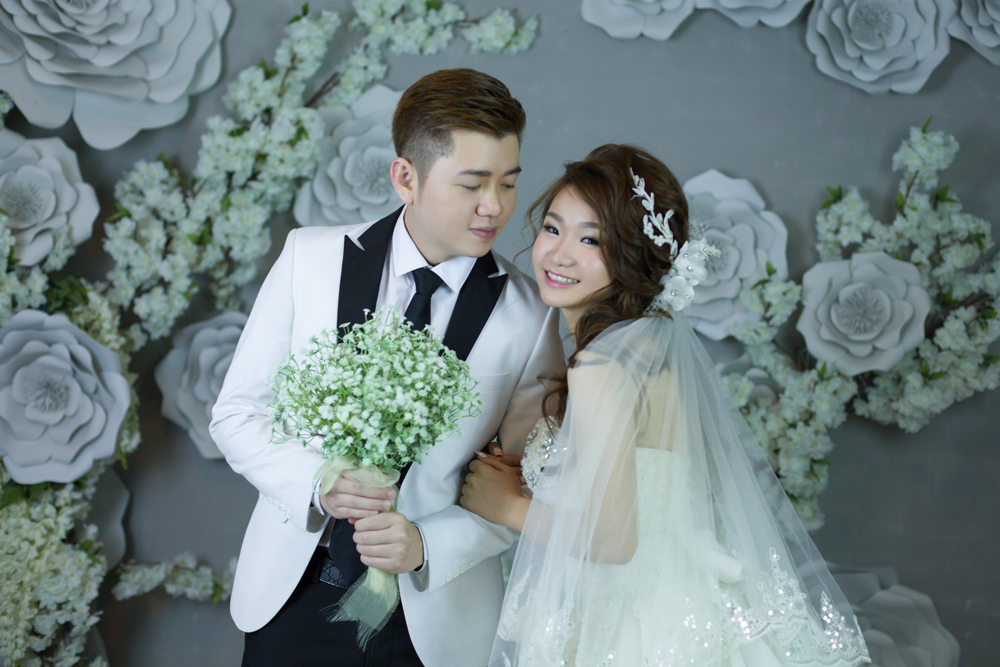
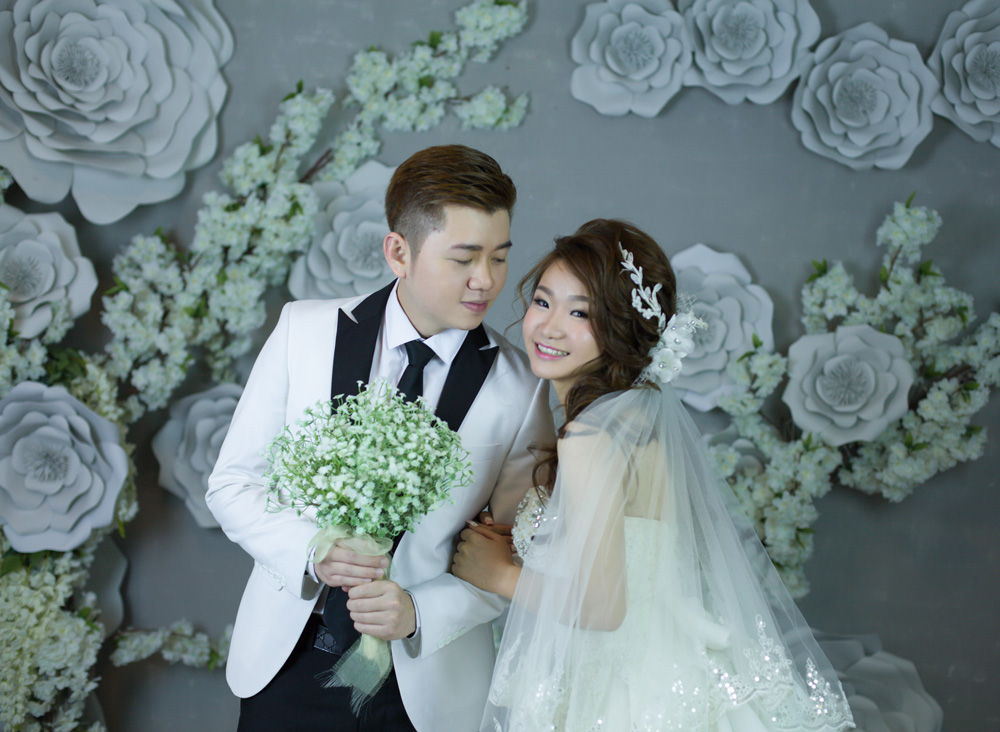
cover

diff --git a/css/style.css b/css/style.css
@@ -150,13 +150,14 @@ figure {
   position: relative;
   height: 800px;
   width: 100%;
-  background-position: 53% 0px !important;
+  background-position: 55% 0px !important;
 }
 
 @media screen and (max-width: 768px) {
   .ivnc7-cover,
   .ivnc7-hero {
     height: 700px;
+    background-size: auto 80% no-repeat !important;
   }
 }
 
